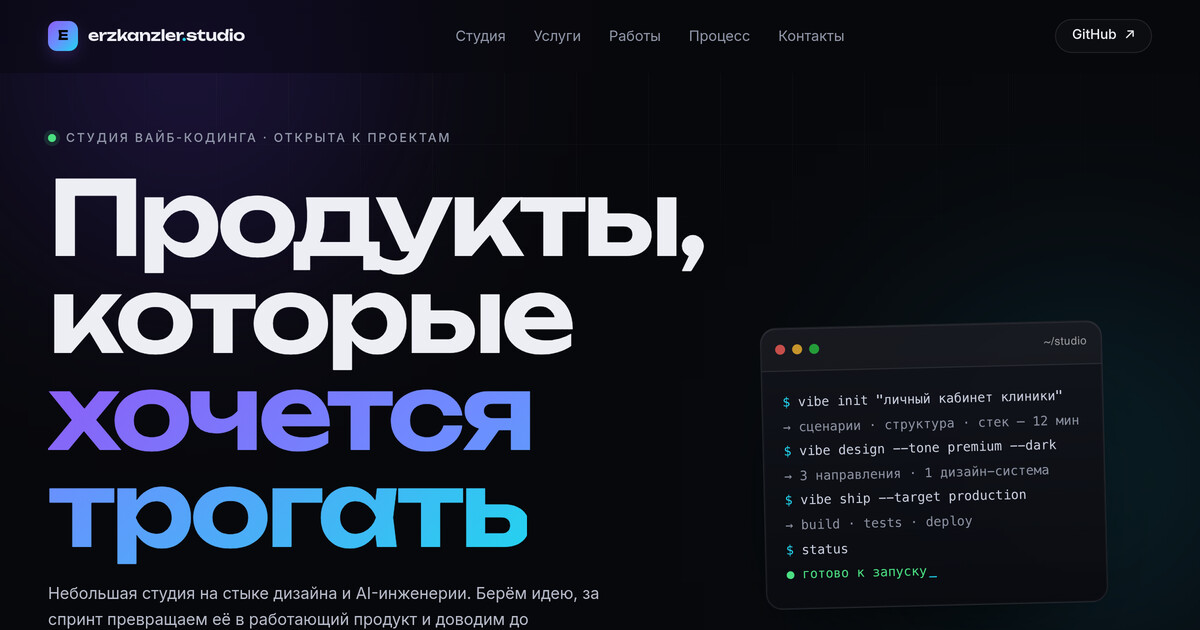
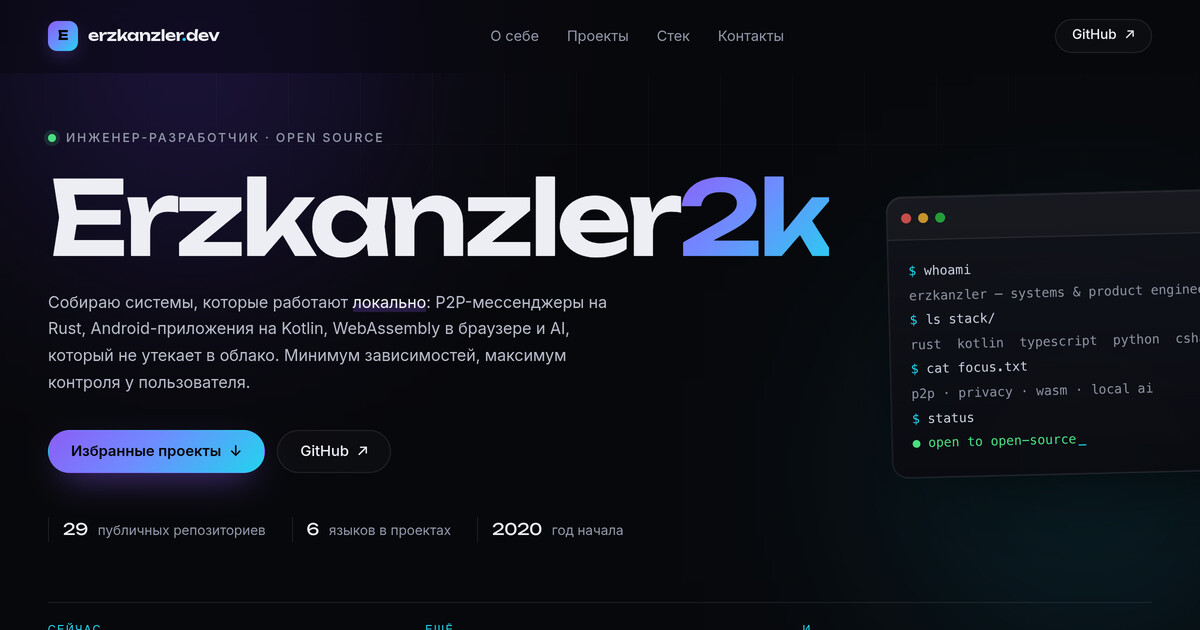
fix: терминал больше не вылезает за контейнер на узких десктопах

diff --git a/index.html b/index.html
@@ -134,7 +134,7 @@
 <span class="c-prompt">$</span> cat focus.txt
 <span class="c-out">p2p · privacy · wasm · local ai</span>
 <span class="c-prompt">$</span> status
-<span class="c-ok">● open to open-source</span><span class="c-caret" aria-hidden="true">_</span></code></pre>
+<span class="c-ok">● open to collabs</span><span class="c-caret" aria-hidden="true">_</span></code></pre>
           </div>
         </div>
       </div>

diff --git a/assets/css/style.css b/assets/css/style.css
@@ -338,6 +338,8 @@ h1, h2, h3, p, dl, dd { margin: 0; }
   scroll-margin-top: 96px;
 }
 
+.hero__inner > * { min-width: 0; }
+
 .hero__inner {
   display: grid;
   grid-template-columns: 1.12fr 0.88fr;
@@ -437,6 +439,7 @@ h1, h2, h3, p, dl, dd { margin: 0; }
 .hero__visual { perspective: 1200px; }
 
 .terminal {
+  max-width: 100%;
   border: 1px solid var(--line);
   border-radius: 16px;
   overflow: hidden;
